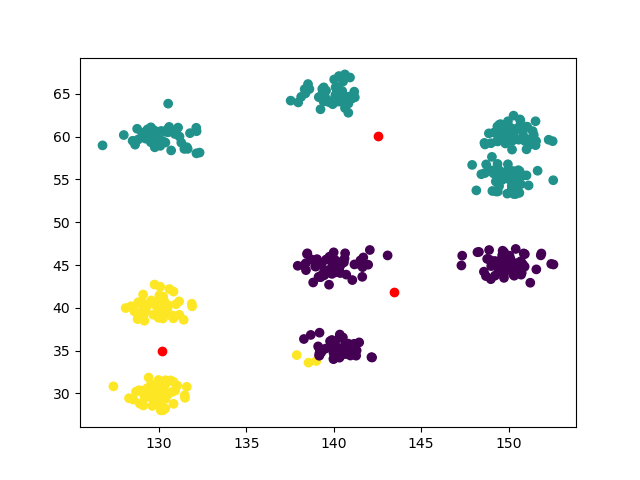
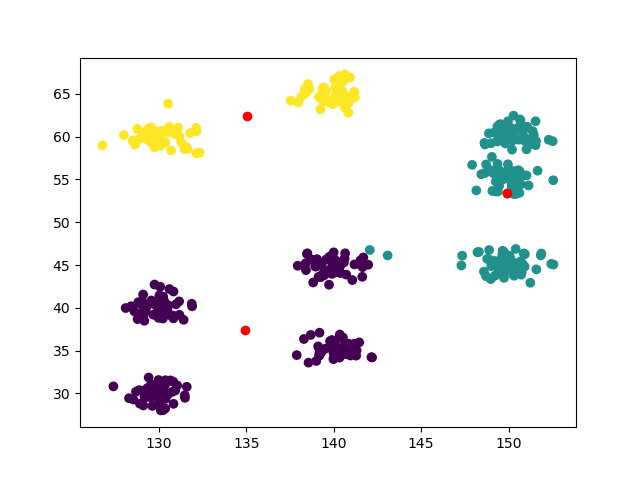
Improved how the outputs look and tidied code

diff --git a/BEER/main.py b/BEER/main.py
@@ -5,37 +5,50 @@ import matplotlib.pyplot as plt
 from sklearn.cluster import KMeans    # type: ignore
 
 # Importing my functions from the files in the directory
-import data_chars as ch
-import getchars as gc
+import data_chars as data_chars
+import getchars as getchars
 import kmeans as km
-import printresults as pr
+import printresults as printresutls
 
-# Importing the data
-data = pd.read_csv('data_Borough_school.csv')
+
+##################
+#     INPUTS     #
 
 # Choose highest number of clusters to go up to
 j = 5
 
-mean1,median1,var1,std1 = ch.chars(data)
-chatactaristics = [mean1, median1, var1, std1]
-# Now have the mean, median, variance and the standard deviation    
+# Enter the file path of the data
+path = 'data_Borough_school.csv'
+
+##################
+
+
+
+# Importing the data
+data = pd.read_csv(path)
+
+
+# Calculating the mean, median, variance and the standard deviation    
+mean1,median1,var1,std1 = data_chars.chars(data)
 
 
 # Printing all of the relevent statistics
 for col in data.columns:
-    gc.getchars('mean', mean1, col)     
-    gc.getchars('median', median1, col) 
-    gc.getchars('variance', var1, col)          
-    gc.getchars('standard diviation', std1, col)
+    getchars.getchars(mean1, median1, var1, std1, col, data)
 
-
+# Calculating the KMeans information to be plotted
 allkmeans, allcentres, alllabels = km.mykmeans(j, data)
 
+# Plotting the KMeans data for each number of clusters
 for j in range(2,j+1):
     plt.scatter(data['Height'], data['Weight'], c=alllabels[f'label{j}'])
     plt.scatter(allcentres[f'centre{j}'][:,0], allcentres[f'centre{j}'][:,1], c='red')
     plt.savefig(f'kmeans{j}.png')
     plt.close()
 
+# Printing the results of the KMeans for each number of clusters
+print('')
+print('RESULTS:')
 for k in range(2,j+1):
-    pr.printresults(k,allcentres,alllabels,data)
+    printresutls.printresults(k,allcentres,alllabels,data)
+ 

diff --git a/BEER/printresults.py b/BEER/printresults.py
@@ -1,5 +1,11 @@
 def printresults(k, centres, labels, data):
-    print(f'Results from {k} clusters:')
+    print('')
+    print('')
+    print(f'RESULTS FOR {k} CLUSTERS:')
     for i in range(1,k+1):
-        print(f'Representative points: Height, Weight for Group {i}:', centres[f'centre{k}'][i-1])
-        print(f'Number of pupils in each group:', len(data[labels[f'label{k}'] == 0]),  len(data[labels[f'label{k}'] == 1]))
+        print(f'> Representative points: Height, Weight for Group {i}:', centres[f'centre{k}'][i-1])
+
+    print('')
+    print('Number of pupils in each group:')
+    for i in range(k):
+        print(f'> Group {i+1}:', len(data[labels[f'label{k}'] == i]))

diff --git a/BEER/getchars.py b/BEER/getchars.py
@@ -1,6 +1,9 @@
-def getchars(name, char, column):
-    if column == 'Weight' or column == 'Height':
-        return print(column + ' ' + name + ': ', char[column])
-    else:
-        return print('Unexpected characteristic or column name provided')
-#print(column + ' ' + name + ': ')
+def getchars(mean1, median1, var1, std1, column, data):
+        print('')
+        print(column.upper() + ' HAS THE FOLLOWING CHARACTERISTICS:')
+        print(     '> Mean: ', mean1[column])
+        print(     '> Median: ', median1[column])
+        print(     '> Variance: ', var1[column])
+        print(     '> Standard Diviation: ', std1[column])
+        print('')
+

diff --git a/BEER/kmeans.py b/BEER/kmeans.py
@@ -5,7 +5,8 @@ def mykmeans(n, data):
     allcentres = {}
     alllabels = {}
     for i in range(2,n+1):
-        kmean = KMeans(n_clusters=i).fit(data)
+        kmean = KMeans(n_clusters=i)
+        kmean.fit(data)
         allkmeans['kmeans{0}'.format(i)] = kmean
         allcentres['centre{0}'.format(i)] = kmean.cluster_centers_
         alllabels['label{0}'.format(i)] = kmean.labels_
